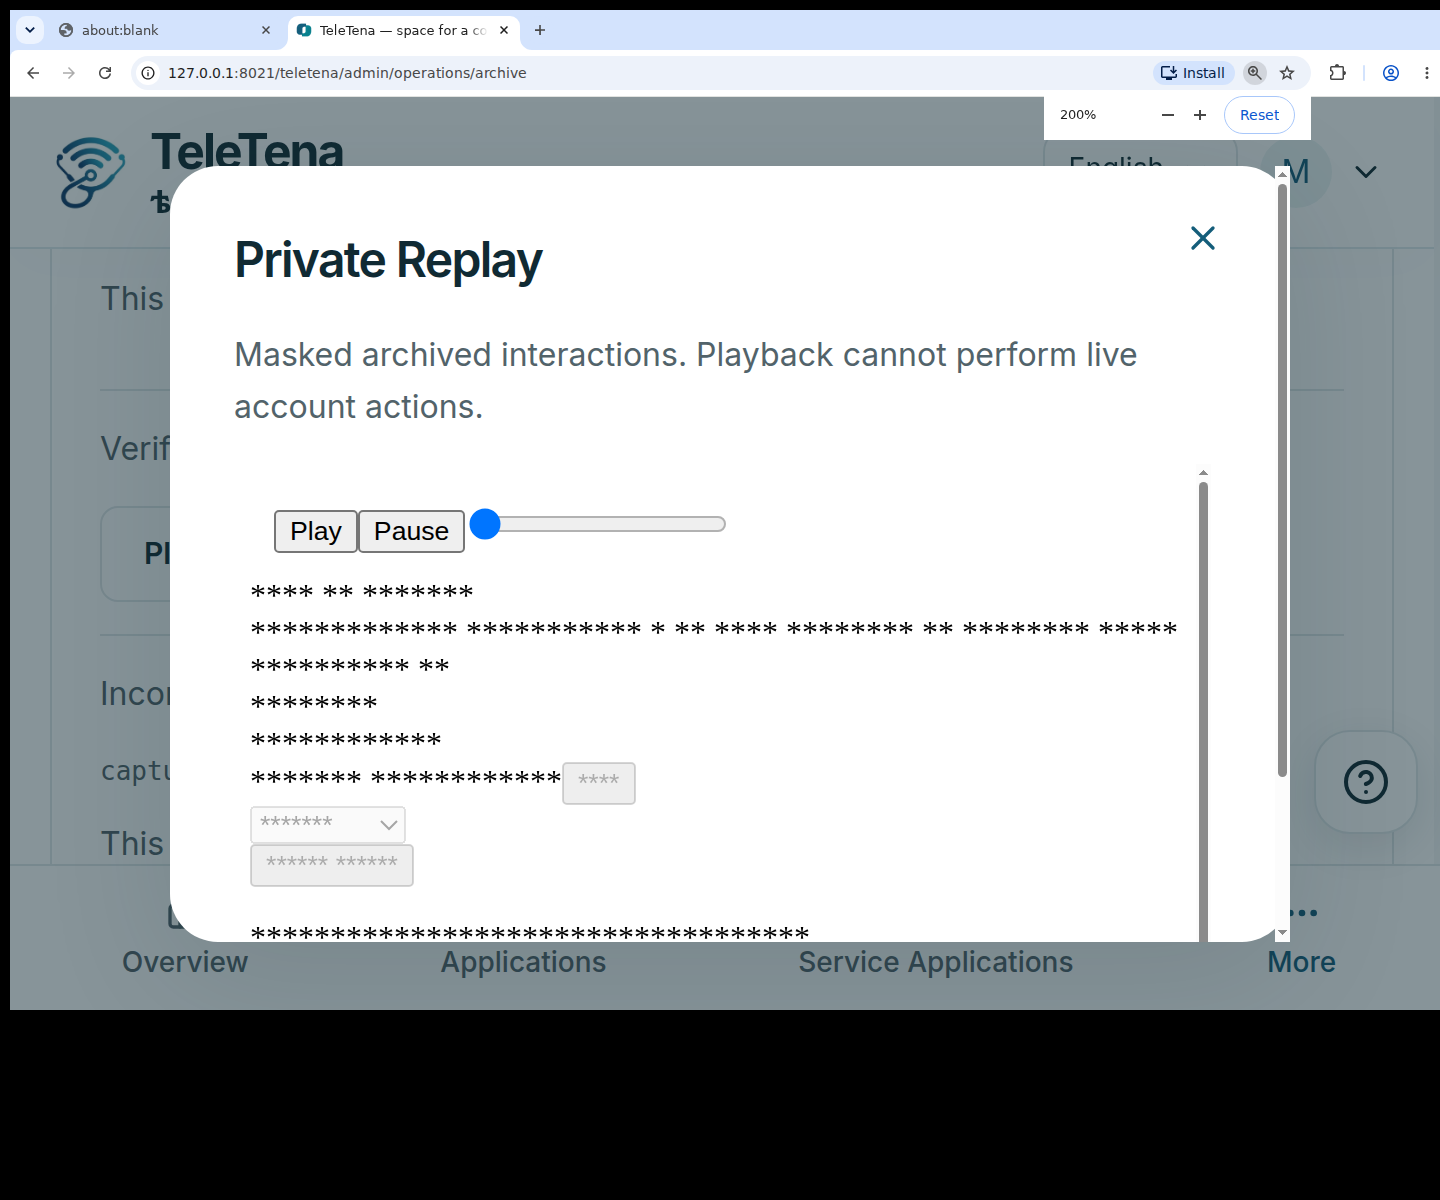
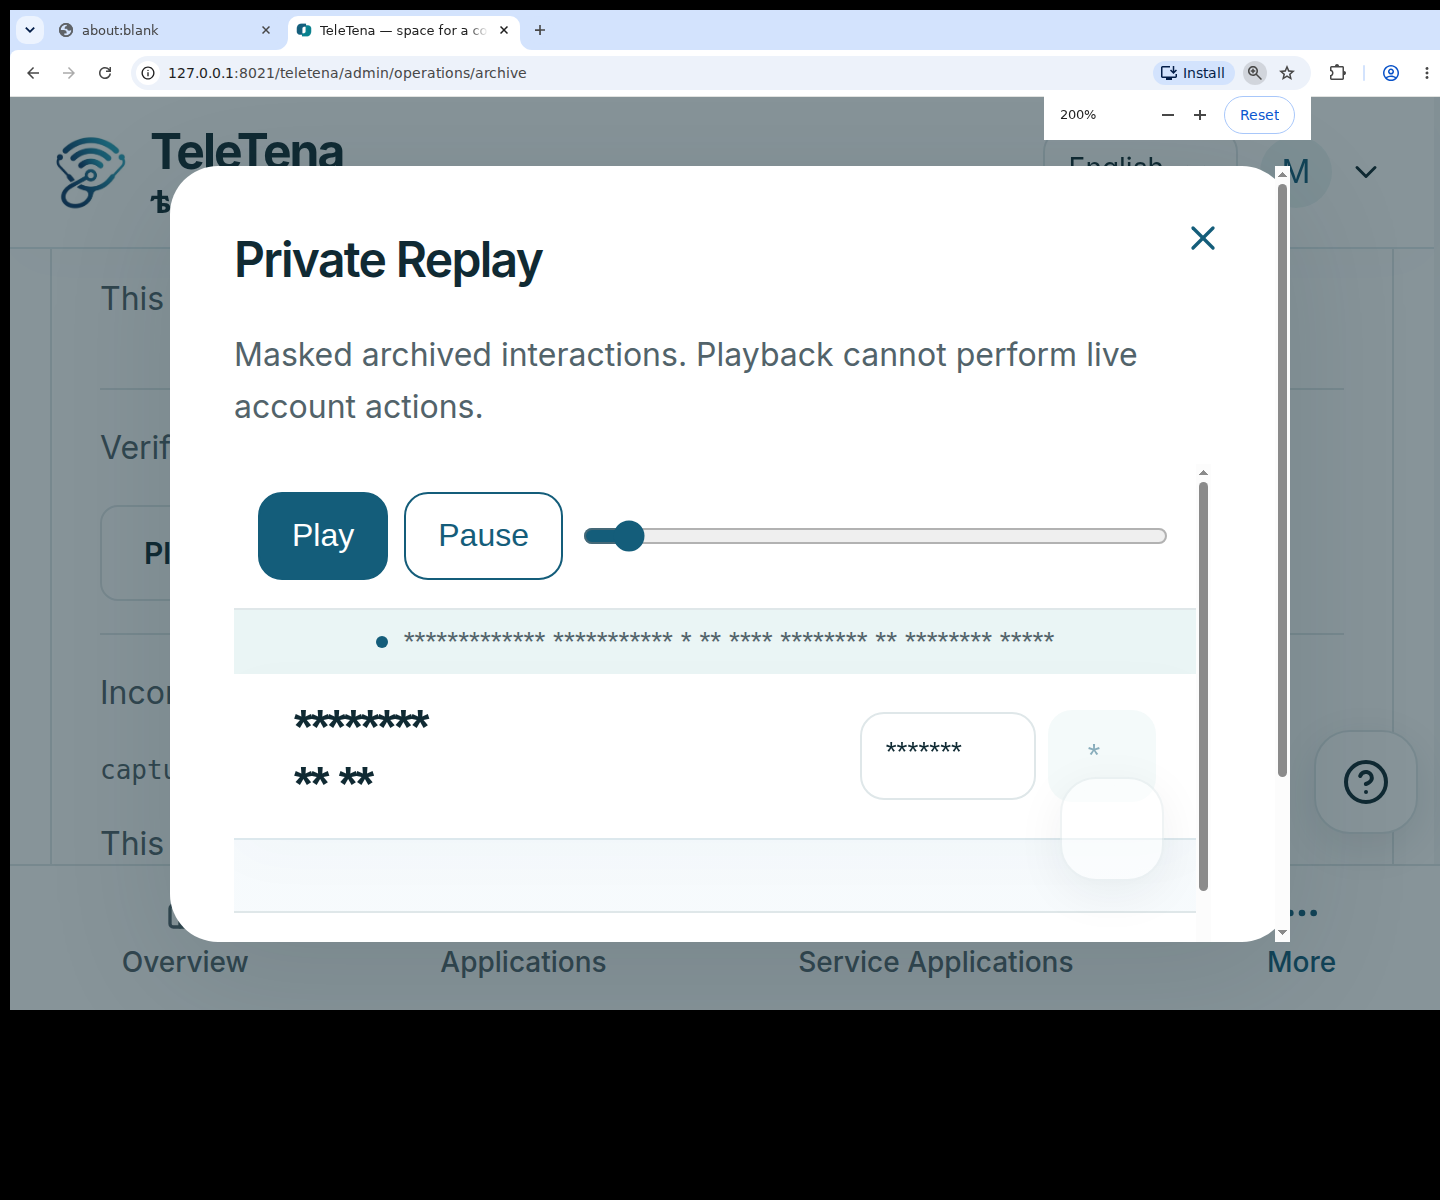
docs(operations): record native provider proof and exact pending checkpoint

diff --git a/docs/operations/live-verification-results-v2.md b/docs/operations/live-verification-results-v2.md
@@ -1,0 +1,94 @@
+# Native-Gateway Live Verification V2 — Immediate Phase
+
+6 November2026. Explicit owner reply **Approve V2** authorized one new synthetic
+recording, ≤90seconds, ≤6snapshot POSTs/5MiB, ≤16administrative reads and one
+new-recording deletion/confirmation. Zero custom events, errors, messages or maps.
+Original PlanV1 remains Completed. Its counters were not reset; the amendment has
+its own private ledger plus cumulative usage in the original manifest.
+
+## Actual Results
+
+- One newly created synthetic patient on the disposable Frappe16 clone; no existing
+  patient/clinician/support/evidence/financial content was transmitted.
+- Actual pinned SDK → authenticated native admission → server privacy projection →
+  private spool → **native enqueued RQ operations worker** → actual provider adapter.
+  Three snapshots were accepted by PostHog EU335848;839255wire bytes. The worker
+  exited after its burst. No direct browser provider transport.
+- Pre-egress dynamic-text/private-URL canaries were absent. The persisted stream is
+  3578milliseconds. The initial browser harness had a return timeout on the
+  single-worker fixture, then a missing Help & Tours entry step and an asynchronous
+  diagnostic callback failure. The same persisted stream was retained/closed;
+  **no replacement recording** was created. Setup used the real login API; a
+  separate real UI sign-in for this same new account passed on the retained
+  two-worker isolated backend. Existing actual-role/dialog masking evidence remains
+  separate; V2 does not claim its planned support-dialog step completed.
+- Actual provisional export:1source,6events,91822compressed bytes. Independent
+  sandbox playback applied every event, sought both ends and made zero requests.
+- Visual inspection exposed a concrete player bug: its100KB CSS limit rejected the
+  application's257KB trusted stylesheet, and the unsafe `behavior` test also
+  matched ordinary `scroll-behavior`. The player now accepts the same bounded1MiB
+  owned stylesheet limit while retaining URL/import/script restrictions. Real
+  exported styles render; hostile-markup/no-network tests pass. Trusted controls
+  follow the existing colors/radius/touch sizes. No new provider call was required.
+- New synthetic account analytics/replay preferences restored off; all3chunks are
+  ProviderAccepted; temporary8022web and burst worker stopped. Main presentation
+  settings, credentials, payment mode and existing records unchanged.
+
+Original provider proof: settled72events/4061B playback and204→404deletion complete.
+Its unbound certificate records the old player hash and is deliberately insufficient
+for the revised player. V2 settled proof must certify the current player separately.
+No certificate is bound to the presentation site or Selfmade; production capture
+and archive export remain disabled.
+
+## Exact Pending Checkpoint
+
+**Due:8November2026,00:28:39.095385Africa/Nairobi**
+(7November2026,21:28:39.095385UTC). It has **not** run and is **not** automatically
+scheduled. Do not alter capture/deadline timestamps, recreate the experiment or
+sleep for a day. From the retained repository, run on/after the due time:
+
+```bash
+cd /home/frappe/frappe/frappe-bench/apps/tele_tena
+PYTHONPATH="$PWD" /home/frappe/teletena-compat/bench/env/bin/python \
+  scripts/operations_proof/native_resume.py \
+  --root /home/frappe/teletena-operations-config \
+  --output /home/frappe/teletena-operations-proof/native-v2 \
+  --delete-verified-tests
+```
+
+The runner checks the saved private manifest/plan/caps before I/O. It enqueues real
+native archive processing with egress restricted to this recording, verifies the
+stored private archive and independent playback, repeats the complete settled
+source export, then attempts only the approved new-recording deletion/readback.
+All reads share the remaining16-read ceiling. Partial/unknown/budget-exhausted
+results stop rather than silently broadening scope. Older local pending archives
+cannot issue live requests. No business timestamps/statuses are changed to select
+this recording. Native raw archive cleanup follows confirmed provider absence,
+retaining audit/tombstone metadata. No automatic capture activation follows.
+
+Current V2 usage:1/1recording,3/6snapshot POSTs,839255/5242880bytes,4/16admin reads,
+0/1deletion,0/1confirmation. Original errors/events/messages stay unchanged.
+Cumulative original+V2:2recordings,4snapshot POSTs,876319wire bytes,16admin reads,
+3deletes and4confirmation reads (one separately approved). Final authorized
+cumulative deletion/confirmation ceilings are4/5. Original PlanV1 stays closed.
+
+## Acceptance Boundary
+
+Native gateway ingestion and provisional actual-project playback are verified.
+Native settled archive processing, independently playable settled copy and V2
+cleanup remain **implemented but awaiting verification** at the exact deadline.
+Local90day clock/quotas/retry/restore/access controls pass separately; these are not
+proof of operational90day service availability. No further live messages, errors,
+analytics events or source-map uploads are authorized. UptimeRobot, production
+storage sizing/launcher, collection-policy/native-language and owner acceptance
+remain operator/human gates.
+
+## Candidate and Local Evidence Scope
+
+The live recording used frontend sourcecae33db (same SDK/controller/projection and
+lock as the new candidate). The subsequent player CSS/control correction was
+verified against that actual exported recording offline, with hostile markup,
+real-backend archive dialogs390/768/1440 and actual200% zoom repeated. V2's due-time
+certificate must use the current player's hash. Fresh/repeat/populated preservation
+evidence remains valid because no schema/business command changed afterv1.54.
+No live transport is used by these subsequent checks.

diff --git a/docs/operations/implementation-gaps.md b/docs/operations/implementation-gaps.md
@@ -5,10 +5,10 @@ lists are historical. See [every original requirement](acceptance-matrix.json).
 
 | Capability | Accurate State | Required Resolution |
 | --- | --- | --- |
-| Authenticated eligible actual-route masking, native capture/spool/worker, local archive/player | Implemented and locally verified | Actual native-gateway live proof under a bounded amendment; production stays disabled |
+| Authenticated eligible actual-route masking, native capture/spool/worker, local archive/player | Implemented and locally verified | Approved V2 ingestion and provisional playback passed; settled native archive/cleanup due8Nov00:28:39EAT; production stays disabled |
 | Original selected-project settled export and independent playback | Verified against EU335848 after25hours | No new capture/export experiment needed |
 | Original test-recording provider deletion | Verified204 then404 after two permission denials; extra read explicitly approved | Complete; original one-run authorization closed, unbound certificate only |
-| Operational90day archival | Native clock/storage/retry/deletion/restore tests pass; not available for production | Complete gateway proof, separate code-bound activation and storage sizing |
+| Operational90day archival | Native clock/storage/retry/deletion/restore tests pass; not available for production | Complete V2 settled native archive/playback/deletion, separate code-bound activation and storage sizing |
 | Anonymous guest replay | Not implemented; guests explicitly ineligible | Protected guest-consent protocol is needed before guest recording; do not count missing coverage as zero traffic |
 | Ongoing backup-freshness telemetry | Not implemented; health shows Unavailable | Operator supply trustworthy backup-success metadata; deployment backup integrity tools already work |
 | Dedicated production private volume | Adapter implemented; local private volume tested | Choose capacity/location/backup expiry,700directory/600objects, disk headroom; no paid provisioning |

diff --git a/docs/operations/operator-and-sprint2.md b/docs/operations/operator-and-sprint2.md
@@ -1,3 +1,9 @@
+> **Latest V2 status:** actual native SDK→gateway→worker ingestion and provisional
+> export/playback pass. Its settled native archive/cleanup checkpoint is due
+> **8November2026,00:28:39Africa/Nairobi**, not scheduled or passed.
+> Original PlanV1 settled proof/cleanup is complete and closed. Production remains
+> disabled. See [exact results and resume command](live-verification-results-v2.md).
+
 > **Current continuation — 6 November 2026:** v1.54 native replay admission,
 > masking, private spooling/export, independent player and retention are implemented
 > and locally verified. The original live recording passed its settled25-hour
@@ -87,3 +93,11 @@ Retry Export is bounded and never restores expired/deleted data. Do not retry
 booking/payment commands or adjust balances to repair telemetry. Acknowledge
 incidents once, observe deduplicated recovery and keep provider failures distinct
 from an application outage. Unconfigured integrations are not healthy integrations.
+
+### V2 Scheduled-Time Handoff
+
+The native gateway has actual provider acceptance/provisional export/player proof.
+Use the saved [native resume checkpoint](live-verification-results-v2.md) on/after
+8Nov00:28:39EAT; it is not automatically scheduled. Continue native APIs/UI work in
+Sprint2 while preserving this exact recording/ledger and disabled production flags.
+Do not reuse Completed PlanV1 to create new tests.

diff --git a/docs/selfmade-operations-update.md b/docs/selfmade-operations-update.md
@@ -612,8 +612,9 @@ Do not deploy this checkpoint as a final provider-connected launch release.
 
 This package delivers the native foundation with production collection disabled.
 Do not bind the local proof file or enable replay/archive as part of updating code.
-Actual settled fixture export/playback/deletion passed; actual new-gateway live
-proof remains outstanding. See [acceptance](operations/acceptance-matrix.json).
+Actual settled fixture export/playback/deletion and new native-gateway provisional
+proof passed. V2 settled native archive/cleanup remains due8Nov00:28:39EAT; no
+production activation is included. See [acceptance](operations/acceptance-matrix.json).
 No seed, provider/payment-mode change, shared repair or new monitor is part of this update.
 
 The checkpoint helper additionally protects any bound external provider file,

diff --git a/docs/operations/replay-integration-v154.md b/docs/operations/replay-integration-v154.md
@@ -143,3 +143,12 @@ The403 observations above remain historical diagnostics, now resolved.
 The native-gateway amendment is still unapproved. It must preserve the closed
 original authorization and explicitly authorize its own one-run phase/caps; no
 original errors/events/maps/messages or already-cleaned references may be reused.
+
+## Approved V2 Continuation
+
+[Actual native-gateway live results](live-verification-results-v2.md) supersede the
+earlier unapproved/pending-gateway statements:3accepted chunks, actual provisional
+export and independent playback pass. Its new settled native archive/cleanup is
+due8Nov00:28:39EAT. No original recording recreated or budget reset. The player
+CSS regression found in actual playback is fixed and retested; current player
+requires V2 settled certification before activation.

diff --git a/docs/screenshots/operations-v154/README.md b/docs/screenshots/operations-v154/README.md
@@ -16,3 +16,9 @@ actual X11 screen capture with Chromium's200% indicator; Playwright's zoomed ras
 capture was blank despite a painted window, so it is not used as visual evidence.
 Owner visual approval remains separate. Earlier Overview/Support/Reports screenshots
 remain in `../operations-sprint-1/` and provider fixture in `../operations-provider-proof/`.
+
+[Actual V2 provisional independent playback](native-v2-provisional-playback.png)
+uses exported masked data and the corrected owned-CSS player. It is not the settled
+archive certificate. All screenshot variants were refreshed after the CSS/control
+fix and visually reinspected; current screenshots replace earlier unstyled-player
+images. Safe controls and scrolling remain usable at390px and actual200% zoom.

diff --git a/docs/operations/collection-retention.md b/docs/operations/collection-retention.md
@@ -1,3 +1,9 @@
+> **Latest V2 status:** actual native SDK→gateway→worker ingestion and provisional
+> export/playback pass. Its settled native archive/cleanup checkpoint is due
+> **8November2026,00:28:39Africa/Nairobi**, not scheduled or passed.
+> Original PlanV1 settled proof/cleanup is complete and closed. Production remains
+> disabled. See [exact results and resume command](live-verification-results-v2.md).
+
 > **Current continuation — 6 November 2026:** v1.54 native replay admission,
 > masking, private spooling/export, independent player and retention are implemented
 > and locally verified. The original live recording passed its settled25-hour

diff --git a/docs/operations/configuration-readiness.md b/docs/operations/configuration-readiness.md
@@ -1,3 +1,9 @@
+> **Latest V2 status:** actual native SDK→gateway→worker ingestion and provisional
+> export/playback pass. Its settled native archive/cleanup checkpoint is due
+> **8November2026,00:28:39Africa/Nairobi**, not scheduled or passed.
+> Original PlanV1 settled proof/cleanup is complete and closed. Production remains
+> disabled. See [exact results and resume command](live-verification-results-v2.md).
+
 > **Current continuation — 6 November 2026:** v1.54 native replay admission,
 > masking, private spooling/export, independent player and retention are implemented
 > and locally verified. The original live recording passed its settled25-hour

diff --git a/docs/operations/live-verification-results-v1.md b/docs/operations/live-verification-results-v1.md
@@ -1,3 +1,9 @@
+> **Latest V2 status:** actual native SDK→gateway→worker ingestion and provisional
+> export/playback pass. Its settled native archive/cleanup checkpoint is due
+> **8November2026,00:28:39Africa/Nairobi**, not scheduled or passed.
+> Original PlanV1 settled proof/cleanup is complete and closed. Production remains
+> disabled. See [exact results and resume command](live-verification-results-v2.md).
+
 > **Current continuation — 6 November 2026:** v1.54 native replay admission,
 > masking, private spooling/export, independent player and retention are implemented
 > and locally verified. The original live recording passed its settled25-hour

diff --git a/docs/operations/sprint-1.md b/docs/operations/sprint-1.md
@@ -1,3 +1,9 @@
+> **Latest V2 status:** actual native SDK→gateway→worker ingestion and provisional
+> export/playback pass. Its settled native archive/cleanup checkpoint is due
+> **8November2026,00:28:39Africa/Nairobi**, not scheduled or passed.
+> Original PlanV1 settled proof/cleanup is complete and closed. Production remains
+> disabled. See [exact results and resume command](live-verification-results-v2.md).
+
 > **Current continuation — 6 November 2026:** v1.54 native replay admission,
 > masking, private spooling/export, independent player and retention are implemented
 > and locally verified. The original live recording passed its settled25-hour

diff --git a/docs/operations/verification.md b/docs/operations/verification.md
@@ -1,3 +1,9 @@
+> **Latest V2 status:** actual native SDK→gateway→worker ingestion and provisional
+> export/playback pass. Its settled native archive/cleanup checkpoint is due
+> **8November2026,00:28:39Africa/Nairobi**, not scheduled or passed.
+> Original PlanV1 settled proof/cleanup is complete and closed. Production remains
+> disabled. See [exact results and resume command](live-verification-results-v2.md).
+
 > **Current continuation — 6 November 2026:** v1.54 native replay admission,
 > masking, private spooling/export, independent player and retention are implemented
 > and locally verified. The original live recording passed its settled25-hour

diff --git a/docs/architecture.md b/docs/architecture.md
@@ -1,3 +1,10 @@
+## Native Replay Proof Follow-Up — 6 November2026
+
+Actual V2 native gateway/worker ingestion and provisional independent playback pass.
+[The new settled native archive checkpoint](operations/live-verification-results-v2.md)
+is due8Nov00:28:39EAT. Production collection remains disabled; no operational90day
+archive or full Sprint1 acceptance is claimed.
+
 ## Operations Continuation — 6 November2026
 
 Additivev1.54 implements gated eligible authenticated replay, native private spooling,
